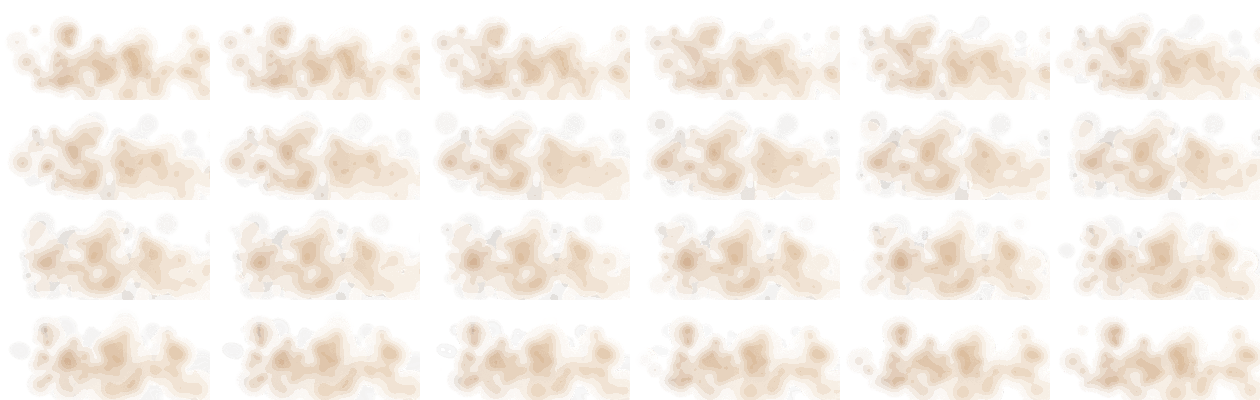
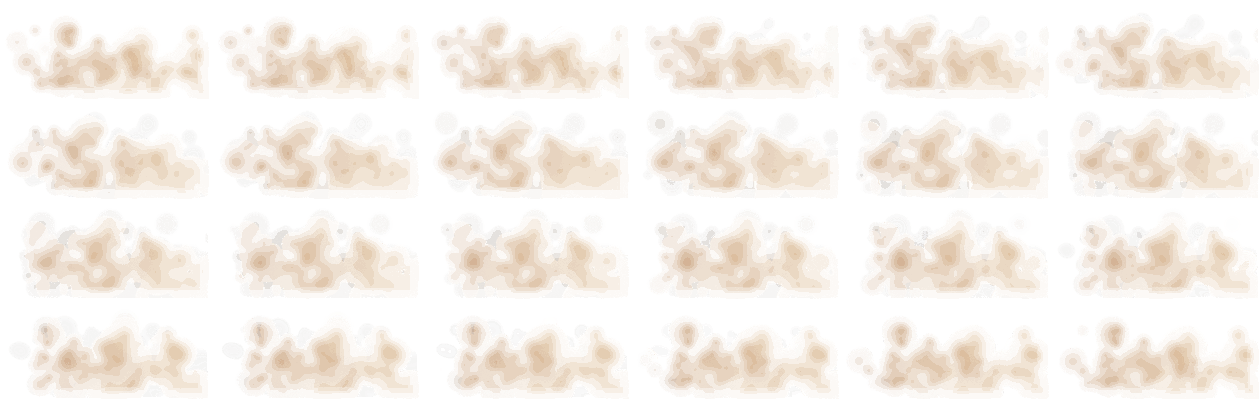
Ambient pack: feather cell edges so no sheet cuts off hard, add check_edges.py (FAL-1074)

diff --git a/game/assets/ambient/src/feather_edges.py b/game/assets/ambient/src/feather_edges.py
@@ -1,0 +1,49 @@
+"""Fade alpha to 0 at the edges of every cell of a sheet, in place (FAL-1074).
+
+    python3 feather_edges.py <sheet.png> <px> [--sides TRBL]   # linear ramp on the named sides
+    python3 feather_edges.py <sheet.png> <px> --radial         # round fade: full inside r-px, 0 at the cell's half-width
+"""
+import argparse, json, math
+from pathlib import Path
+from PIL import Image, ImageChops
+
+ap = argparse.ArgumentParser()
+ap.add_argument("sheet")
+ap.add_argument("px", type=int)
+ap.add_argument("--sides", default="TRBL")
+ap.add_argument("--radial", action="store_true")
+o = ap.parse_args()
+
+sheet = Path(o.sheet)
+src = Image.open(sheet)
+img = src.convert("RGBA")
+frames = json.loads(sheet.with_suffix(".json").read_text())["frames"]
+w0, h0 = next(iter(frames.values()))["frame"]["w"], next(iter(frames.values()))["frame"]["h"]
+
+mask = Image.new("L", (w0, h0))
+px = mask.load()
+for y in range(h0):
+    for x in range(w0):
+        if o.radial:
+            r = math.hypot(x + 0.5 - w0 / 2, y + 0.5 - h0 / 2)
+            t = (min(w0, h0) / 2 - r) / o.px
+        else:
+            d = []
+            if "L" in o.sides: d.append(x + 0.5)
+            if "R" in o.sides: d.append(w0 - x - 0.5)
+            if "T" in o.sides: d.append(y + 0.5)
+            if "B" in o.sides: d.append(h0 - y - 0.5)
+            t = min(d) / o.px if d else 1
+        t = max(0.0, min(1.0, t))
+        px[x, y] = round(255 * t * t * (3 - 2 * t))  # smoothstep
+
+alpha = img.getchannel("A")
+for f in frames.values():
+    r = f["frame"]
+    box = (r["x"], r["y"], r["x"] + r["w"], r["y"] + r["h"])
+    alpha.paste(ImageChops.multiply(alpha.crop(box), mask), box)
+img.putalpha(alpha)
+if src.mode == "P":  # keep palette sheets small; clear colour under alpha 0 first
+    img = Image.composite(img, Image.new("RGBA", img.size), alpha.point(lambda v: 255 if v else 0))
+    img = img.quantize(256, method=Image.Quantize.FASTOCTREE)
+img.save(sheet, optimize=True)

diff --git a/game/assets/ambient/src/check_edges.py b/game/assets/ambient/src/check_edges.py
@@ -1,0 +1,29 @@
+"""Report the max alpha on the outer 1 px row of every cell of every sheet (FAL-1074).
+
+    python3 check_edges.py [limit]     # from this folder; exits 1 if any cell is over the limit (default 8)
+"""
+import json, sys
+from pathlib import Path
+from PIL import Image
+
+limit = int(sys.argv[1]) if len(sys.argv) > 1 else 8
+bad = 0
+for js in sorted(Path(__file__).resolve().parent.parent.glob("*-sheet.json")):
+    a = Image.open(js.with_suffix(".png")).convert("RGBA").getchannel("A")
+    worst = {"T": 0, "R": 0, "B": 0, "L": 0}
+    over = []
+    for name, f in sorted(json.loads(js.read_text())["frames"].items()):
+        r = f["frame"]
+        c = a.crop((r["x"], r["y"], r["x"] + r["w"], r["y"] + r["h"]))
+        w, h = c.size
+        e = {"T": c.crop((0, 0, w, 1)).getextrema()[1], "B": c.crop((0, h - 1, w, h)).getextrema()[1],
+             "L": c.crop((0, 0, 1, h)).getextrema()[1], "R": c.crop((w - 1, 0, w, h)).getextrema()[1]}
+        for k, v in e.items():
+            worst[k] = max(worst[k], v)
+        if max(e.values()) > limit:
+            over.append(name)
+    ok = not over
+    bad += not ok
+    print(f"{'ok  ' if ok else 'FAIL'} {js.stem:24} max edge alpha T{worst['T']:>3} R{worst['R']:>3} "
+          f"B{worst['B']:>3} L{worst['L']:>3}" + (f"  over {limit}: {', '.join(over)}" if over else ""))
+sys.exit(1 if bad else 0)

diff --git a/game/assets/ambient/src/README.md b/game/assets/ambient/src/README.md
@@ -14,3 +14,13 @@ headless on the CPU. Run each step from the piece's own folder.
 | `dust-burst-sheet` | EffectCraft | `burst.jsonl`, `./burst-set.sh`, render `--start 0.083 --end 1.17`, then `pack_loop.py ... 7 12 --fade 4` |
 
 With `anicraft-cli run ... --save`, delete the old `.anicraft` first, because saving over it is refused.
+
+**Edge feather (after packing).** No cell may touch its own edge, or Godot shows a hard straight cut. These ran on the packed sheets:
+
+```
+python3 feather_edges.py ../hit-spark-sheet.png 24 --radial
+python3 feather_edges.py ../flats-dust-sheet.png 16
+python3 feather_edges.py ../engine-smoke-sheet.png 16 --sides R
+python3 feather_edges.py ../dome-neon-sheet.png 4 --sides B
+python3 check_edges.py        # every cell's outer 1 px row must read alpha <= 8; exits 1 otherwise
+```
